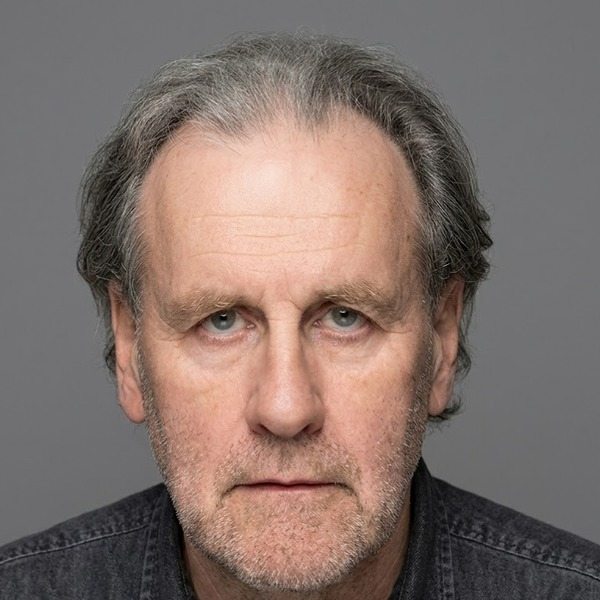
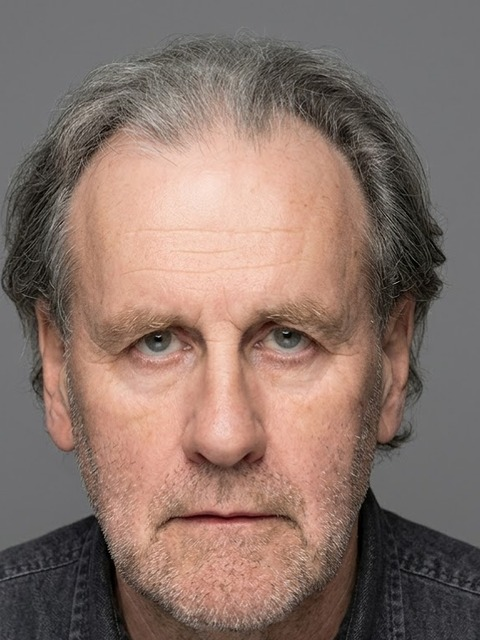
fix(elmsflow): 3:4 portrait photos, rounded-2xl frame, object-top

diff --git a/content/pitch-decks/elmsflow/sections/ShareholdersSection.tsx b/content/pitch-decks/elmsflow/sections/ShareholdersSection.tsx
@@ -168,20 +168,20 @@ export function ShareholdersSection() {
               </div>
 
               {/* Photo with pulsing ring */}
-              <div className="relative w-40 h-40 md:w-44 md:h-44 mb-4">
+              <div className="relative w-28 h-36 md:w-32 md:h-[10.5rem] mb-4">
                 {/* Pulse ring (animates on hover) */}
                 <motion.span
-                  className="absolute inset-0 rounded-full border-2 border-emerald-400/0 group-hover:border-emerald-400/60"
+                  className="absolute inset-0 rounded-2xl border-2 border-emerald-400/0 group-hover:border-emerald-400/60"
                   animate={{ scale: [1, 1.15, 1], opacity: [0.6, 0, 0.6] }}
                   transition={{ duration: 1, repeat: Infinity, ease: "easeOut" }}
                 />
-                <div className="relative w-full h-full rounded-full overflow-hidden ring-2 ring-emerald-500/30 group-hover:ring-emerald-500/70 transition-all">
+                <div className="relative w-full h-full rounded-2xl overflow-hidden ring-2 ring-emerald-500/30 group-hover:ring-emerald-500/70 transition-all">
                   <Image
                     src={m.photo}
                     alt={m.name}
                     fill
-                    sizes="(max-width: 768px) 160px, 176px"
-                    className="object-cover object-center"
+                    sizes="(max-width: 768px) 112px, 128px"
+                    className="object-cover object-top"
                   />
                 </div>
               </div>
